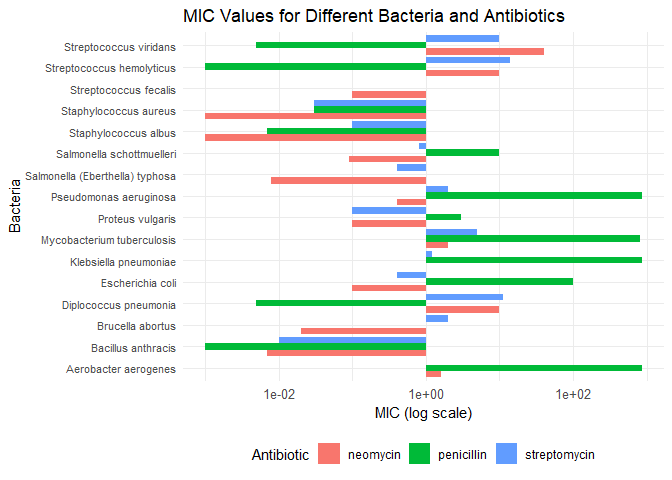
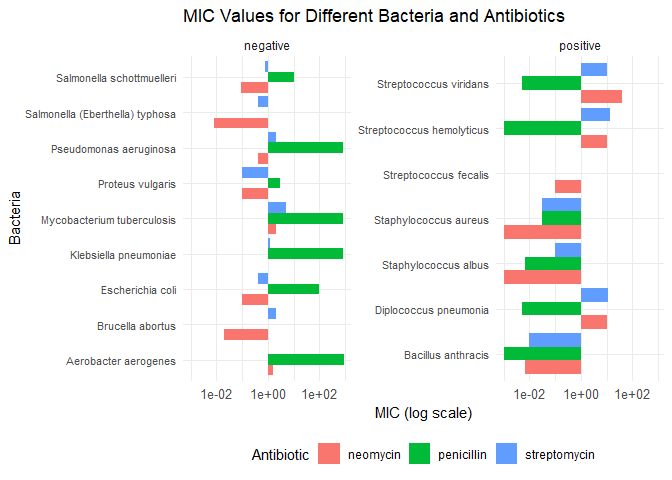
Challenge 5 corrections

diff --git a/challenges/c05-antibiotics-assignment.md b/challenges/c05-antibiotics-assignment.md
@@ -170,7 +170,8 @@ ggplot(df_long, aes(x = MIC, y = bacteria, color = gram)) +
        x = "MIC (log scale)",
        y = "Bacteria",
        color = "Gram Stain") +
-  theme(axis.text.y = element_text(size = 8),
+  theme(axis.text.y = element_text(angle = 45, hjust = 1),
+        axis.text.x = element_text(angle = 45, hjust = 1),
         strip.text = element_text(size = 12, face = "bold"))
 ```
 
@@ -197,6 +198,7 @@ ggplot(df_long, aes(x = bacteria, y = MIC, fill = gram)) +
   geom_bar(stat = "identity", position = "dodge", aes(fill = antibiotic)) +
   scale_y_log10() + 
   coord_flip() +  
+    facet_wrap(~ gram, scales = "free_y") +
   theme_minimal() +
   labs(title = "MIC Values for Different Bacteria and Antibiotics",
        x = "Bacteria",
@@ -250,27 +252,24 @@ your other visuals.
 
 ``` r
 df_long <- df_antibiotics %>%
-  pivot_longer(cols = c(penicillin), 
+  pivot_longer(cols = c(penicillin, ), 
                names_to = "antibiotic", 
                values_to = "MIC")
 
-ggplot(df_long, aes(x = antibiotic, y = MIC, color = gram)) +
-  geom_boxplot(outlier.shape = NA, alpha = 0.6) + 
-  geom_point(aes(shape = gram), width = 0.2, size = 3, alpha = 0.8) +  
-  scale_y_log10() +  
+ggplot(df_long, aes(x = reorder(bacteria, MIC), y = MIC, color = gram)) +
+  geom_point(size = 3, aes(shape = gram)) +
+  geom_hline(yintercept = 1, linetype = "dashed", color = "black") +
+  scale_y_log10() +
+  coord_flip() +
   theme_minimal() +
-  labs(title = "Distribution of MIC Values for Different Antibiotics",
-       x = "Antibiotic",
-       y = "MIC (log scale)",
-       color = "Gram Stain",
-       shape = "Gram Stain") +
-  theme(axis.text.x = element_text(size = 12),
-        axis.text.y = element_text(size = 10),
-        legend.position = "bottom")
+  labs(
+    title = "MIC Values for Penicillin by Bacteria",
+    x = "Bacteria",
+    y = "MIC (log scale)",
+    color = "Gram Stain",
+    shape = "Gram Stain"
+  ) 
 ```
-
-    ## Warning in geom_point(aes(shape = gram), width = 0.2, size = 3, alpha = 0.8):
-    ## Ignoring unknown parameters: `width`
 
 ![](c05-antibiotics-assignment_files/figure-gfm/q1.4-1.png)<!-- -->
 
@@ -288,16 +287,23 @@ df_long <- df_antibiotics %>%
   pivot_longer(cols = c(neomycin), 
                names_to = "antibiotic", 
                values_to = "MIC")
-ggplot(df_long, aes(x = antibiotic, y = bacteria, size = MIC, color = gram)) +
-  geom_count(alpha = 0.7) +
-  scale_color_manual(values = c("negative" = "blue", "positive" = "red")) +  
-  theme_minimal() +
-  labs(title = "Effectiveness of Antibiotics by Bacteria",
-       x = "Antibiotic",
-       y = "Bacteria",
-       color = "Gram Stain") +
+ggplot(df_long, aes(x = antibiotic, y = reorder(bacteria, MIC), fill = MIC)) +
+  geom_tile(color = "white") +
+  scale_fill_gradient(
+    trans = "log10",
+    low = "lightyellow",
+    high = "darkred",
+    name = "MIC"
+  ) +
+  geom_text(aes(label = round(MIC, 2)), size = 3, color = "black") +
+  facet_wrap(~ gram, scales = "free_y") +
+  labs(
+    title = "Neomycin Effectiveness by Bacteria",
+    x = "Antibiotic",
+    y = "Bacteria"
+  ) +
   theme(axis.text.x = element_text(size = 12),
-        axis.text.y = element_text(size = 8),
+        axis.text.y = element_text(hjust = 1),
         legend.position = "bottom")
 ```
 
@@ -327,15 +333,14 @@ opportunity to think about why this is.**
 - What is your response to the question above?
 
   - The three antibiotics vary greatly in their effectiveness against
-    bacteria and gram stain. Streptomycin tended to have the lowest
-    magnitude MIC values throughout all of the bacteria genera and
-    penicillin tended to have the largest magnitude MIC values, with
-    neomycin having the most variation.
+    bacteria and gram stain. Streptomycin tended to have values
+    consistantly under the effectiveness threshold while penicillin
+    tended to have values greater than the effectiveness threshold.
 
 - Which of your visuals above (1 through 5) is **most effective** at
   helping to answer this question?
 
-  - Visual 2
+  - Visual 2 and 4
 
 <!-- -->
 
